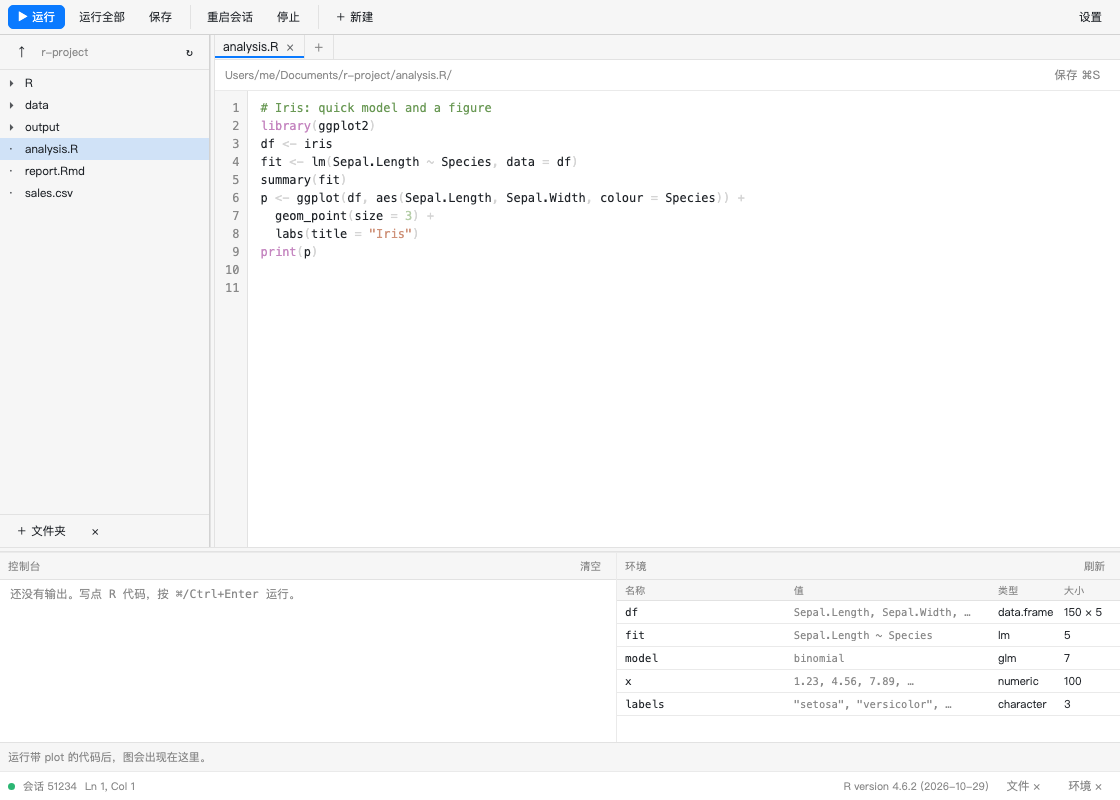
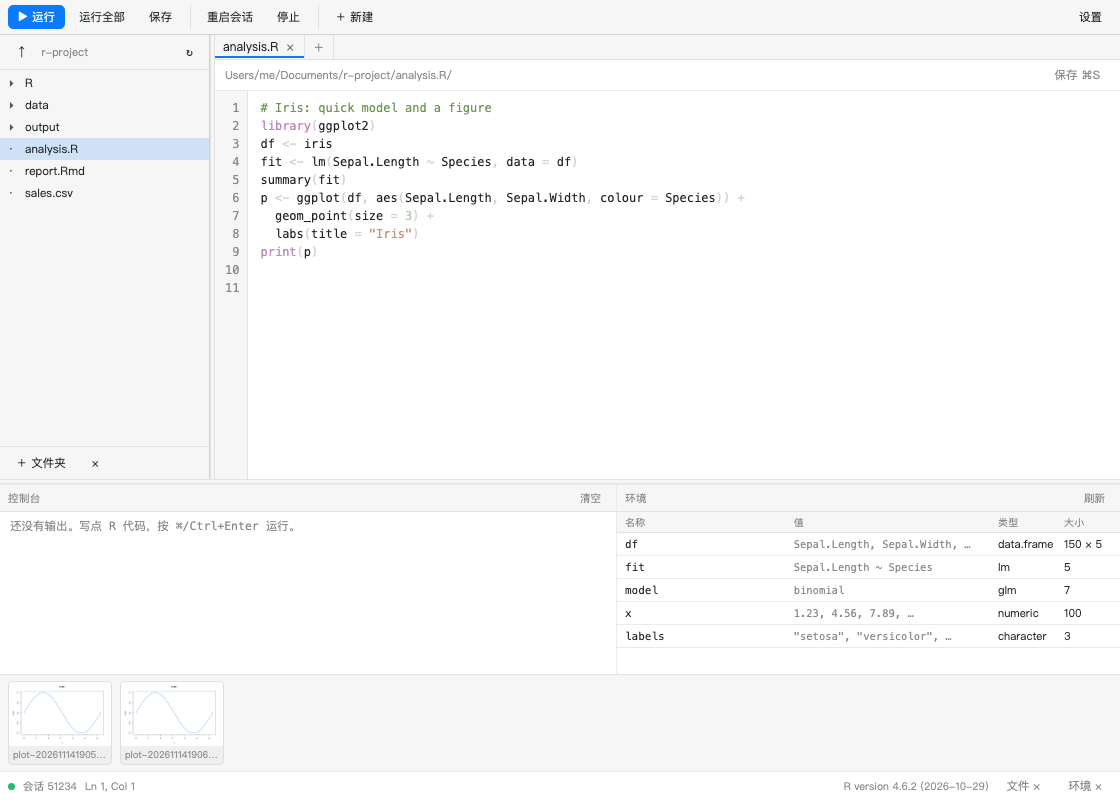
feat(client): click a plot to enlarge it, with fit/100%, arrow-key browsing and path copy

diff --git a/lib/client.js b/lib/client.js
@@ -475,6 +475,20 @@ window.__ModuleLoader__.load({
 .rr-thumb { display:flex; flex-direction:column; gap:2px; flex:none; width:104px; border:1px solid var(--rr-border-soft); border-radius:5px; overflow:hidden; background:rgba(127,127,127,.05); }
 .rr-thumb img { width:100%; height:64px; object-fit:contain; background:#fff; display:block; }
 .rr-thumb-name { font-size:9.5px; padding:0 4px 3px; color:var(--rr-muted); overflow:hidden; text-overflow:ellipsis; white-space:nowrap; }
+.rr-thumb { cursor:zoom-in; padding:0; border-radius:5px; text-align:left; color:inherit; font:inherit; }
+.rr-thumb:hover { border-color:var(--rr-accent); }
+.rr-thumb:focus-visible { outline:2px solid var(--rr-accent); outline-offset:1px; }
+.rr-lightbox { position:fixed; inset:0; z-index:70; background:rgba(12,14,18,.72); display:flex; flex-direction:column; }
+.rr-lb-bar { display:flex; align-items:center; gap:8px; padding:8px 12px; color:#fff; background:rgba(12,14,18,.55); border-bottom:1px solid rgba(255,255,255,.14); }
+.rr-lb-title { flex:1 1 auto; min-width:0; overflow:hidden; text-overflow:ellipsis; white-space:nowrap; font-family:var(--rr-mono); font-size:11px; opacity:.9; }
+.rr-lb-btn { display:inline-flex; align-items:center; justify-content:center; height:24px; min-width:24px; padding:0 8px; border-radius:5px; border:1px solid rgba(255,255,255,.22); background:rgba(255,255,255,.08); color:#fff; font:inherit; font-size:11.5px; cursor:pointer; white-space:nowrap; }
+.rr-lb-btn:hover { background:rgba(255,255,255,.18); }
+.rr-lb-btn[data-on="true"] { background:var(--rr-accent); border-color:var(--rr-accent); }
+.rr-lb-stage { flex:1 1 auto; min-height:0; overflow:auto; display:flex; align-items:center; justify-content:center; padding:12px; }
+.rr-lb-stage img { display:block; background:#fff; border-radius:3px; box-shadow:0 10px 40px rgba(0,0,0,.45); }
+.rr-lb-stage[data-zoom="fit"] img { max-width:100%; max-height:100%; object-fit:contain; }
+.rr-lb-stage[data-zoom="full"] img { max-width:none; max-height:none; }
+.rr-lb-hint { color:rgba(255,255,255,.72); font-size:10.5px; padding:6px 12px 8px; text-align:center; }
 .rr-status { display:flex; align-items:center; gap:8px; padding:2px 8px; flex:none; border-top:1px solid var(--rr-border-soft); font-size:10.5px; color:var(--rr-muted); }
 .rr-status .rr-spacer { flex:1 1 auto; }
 .rr-settings { flex:1 1 auto; overflow:auto; padding:12px 14px 24px; }
@@ -563,6 +577,8 @@ window.__ModuleLoader__.load({
       const [running, setRunning] = react.useState(false)
       const [message, setMessage] = react.useState('')
       const [editing, setEditing] = react.useState(null)
+      const [lightbox, setLightbox] = react.useState(
+        typeof props?.initialLightbox === 'number' ? { index: props.initialLightbox, fit: true } : null)
       const [treeWidth, setTreeWidth] = react.useState(() => readNumber(TREE_WIDTH_KEY, 210))
       const [consoleHeight, setConsoleHeight] = react.useState(() => readNumber(CONSOLE_KEY, 190))
       const [caret, setCaret] = react.useState({ line: 1, col: 1 })
@@ -1104,14 +1120,66 @@ window.__ModuleLoader__.load({
               h('span', null, String(item.size ?? ''))))))
       }
 
+      const openLightbox = (index) => setLightbox({ index, fit: true })
+
+      const stepPlot = (delta) => setLightbox((current) => {
+        if (current === null || plots.length === 0) return current
+        const next = (current.index + delta + plots.length) % plots.length
+        return { ...current, index: next }
+      })
+
+      react.useEffect(() => {
+        if (lightbox === null) return undefined
+        const onKey = (event) => {
+          if (event.key === 'Escape') { event.preventDefault(); setLightbox(null) }
+          else if (event.key === 'ArrowLeft') { event.preventDefault(); stepPlot(-1) }
+          else if (event.key === 'ArrowRight') { event.preventDefault(); stepPlot(1) }
+          else if (event.key === '0') { event.preventDefault(); setLightbox((current) => current === null ? current : { ...current, fit: true }) }
+        }
+        document.addEventListener('keydown', onKey)
+        return () => document.removeEventListener('keydown', onKey)
+      }, [lightbox, plots.length])
+
+      const copyPath = (path) => {
+        const text = path
+        const done = () => flash('路径已复制')
+        try {
+          if (navigator.clipboard?.writeText) { navigator.clipboard.writeText(text).then(done, () => flash(text)) }
+          else flash(text)
+        } catch { flash(text) }
+      }
+
+      function renderLightbox() {
+        if (lightbox === null || plots.length === 0) return null
+        const index = Math.min(Math.max(lightbox.index, 0), plots.length - 1)
+        const path = plots[index]
+        return h('div', { className: 'rr-lightbox', 'data-rr-lightbox': true, role: 'dialog', 'aria-modal': 'true', onMouseDown: (event) => { if (event.target === event.currentTarget) setLightbox(null) } },
+          h('div', { className: 'rr-lb-bar' },
+            h('button', { className: 'rr-lb-btn', onClick: () => setLightbox(null), title: '关闭（Esc）' }, '✕'),
+            h('span', { className: 'rr-lb-title', title: path }, `${index + 1} / ${plots.length} · ${basename(path)}`),
+            plots.length > 1 ? h('button', { className: 'rr-lb-btn', onClick: () => stepPlot(-1), title: '上一张（←）' }, '‹') : null,
+            plots.length > 1 ? h('button', { className: 'rr-lb-btn', onClick: () => stepPlot(1), title: '下一张（→）' }, '›') : null,
+            h('button', { className: 'rr-lb-btn', 'data-on': lightbox.fit ? 'true' : 'false', onClick: () => setLightbox({ ...lightbox, index, fit: !lightbox.fit }), title: '切换 适应窗口 / 原始大小（0）' }, lightbox.fit ? '适应' : '100%'),
+            h('a', { className: 'rr-lb-btn', href: artifactUrl(path), target: '_blank', rel: 'noreferrer', title: '在新标签打开原图' }, '打开原图'),
+            h('button', { className: 'rr-lb-btn', onClick: () => copyPath(path) }, '复制路径')),
+          h('div', { className: 'rr-lb-stage', 'data-zoom': lightbox.fit ? 'fit' : 'full', onMouseDown: () => {} },
+            h('img', { src: artifactUrl(path), alt: basename(path), draggable: false })),
+          h('div', { className: 'rr-lb-hint' }, 'Esc 关闭 · ← → 切换 · 0 适应窗口'))
+      }
+
       function renderPlots() {
         return h('div', { className: 'rr-plots', 'data-rr-plots': true },
           plots.length === 0
             ? h('div', { className: 'rr-plots-empty' }, '运行带 plot 的代码后，图会出现在这里。')
-            : plots.map((path, index) => h('div', { key: `${path}-${index}`, className: 'rr-thumb', title: path },
-              h('a', { href: artifactUrl(path), target: '_blank', rel: 'noreferrer' },
-                h('img', { src: artifactUrl(path), alt: basename(path), loading: 'lazy' })),
-              h('div', { className: 'rr-thumb-name' }, basename(path)))))
+            : plots.map((path, index) => h('button', {
+              key: `${path}-${index}`,
+              className: 'rr-thumb',
+              title: `${path}\n点击放大`,
+              'data-rr-thumb': true,
+              onClick: () => openLightbox(index)
+            },
+            h('img', { src: artifactUrl(path), alt: basename(path), loading: 'lazy' }),
+            h('div', { className: 'rr-thumb-name' }, basename(path)))))
       }
 
       function renderStatus() {
@@ -1319,7 +1387,8 @@ window.__ModuleLoader__.load({
             renderVars()),
           renderPlots(),
           renderStatus()],
-        renderModal())
+        renderModal(),
+        renderLightbox())
     }
 
     // -------------------------------------------------------------- registration

diff --git a/README.md b/README.md
@@ -9,6 +9,11 @@ laid out like RStudio, with the keyboard habits of VS Code.
 
 ![Panel](docs/panel.png)
 
+Click any plot thumbnail to open it full-size — fit-to-window or 100 %, flip through
+the set with ← →, copy the path, or open the PNG in a new tab:
+
+![Plot viewer](docs/lightbox.png)
+
 ## What you get
 
 - **A session, not a script runner.** One long-lived `R --slave` process: variables,
@@ -21,7 +26,8 @@ laid out like RStudio, with the keyboard habits of VS Code.
 - **Environment table.** Name / value / class / size, double-click a row to assign a
   new value with any R expression (`1:10`, `c("a","b")`, …).
 - **Plots become files.** Every `plot()` is written to
-  `.dsh-r-runner/plots/plot-<ts>-<pid>-NNN.png`; the panel shows thumbnails, and the
+  `.dsh-r-runner/plots/plot-<ts>-<pid>-NNN.png`; the panel shows thumbnails you can
+  click to enlarge (fit / 100 %, ← → to browse, copy path, open the PNG), and the
   paths are plain files an agent can read.
 - **Agent tool.** `r_run({ code })` / `r_run({ file })` lets the model run R directly
   and get back the console output plus plot paths.
@@ -60,6 +66,8 @@ to the profile manifest; `bin/reload-host.sh` forces the host to re-compose.
 | Open the panel | `⌘⇧R` (web: `⌥⇧R`) |
 | Restart the R session | toolbar **重启会话** |
 | Edit a variable | double-click its row in the environment table |
+| Enlarge a plot | click its thumbnail |
+| Close / browse plots in the viewer | `Esc` / `←` `→` / `0` (fit ⇄ 100 %) |
 
 Notes:
 

diff --git a/docs/PLAN.md b/docs/PLAN.md
@@ -97,7 +97,8 @@ DSH 插件分两半，边界由「谁有权限、谁有 UI」决定：
 - [ ] 运行历史（`history` 路由已留，UI 未接）：上/下方向键取回上一次运行的代码。
 - [ ] Rmd 的「运行当前 chunk」（现在只能整块运行）：解析 ```{r} 块并只跑光标所在块。
 - [ ] 数据查看器：点环境表里 `data.frame` 变量 → 只读表格（前 100 行）。
-- [ ] 图形条：点开大图 + 在新标签打开 + 删除单张。
+- [x] 图形条：点缩略图放大（适应窗口 / 100%、← → 切换、复制路径、新标签打开原图）。
+- [ ] 图形条：删除单张 / 清空 / 「全部图形」网格视图。
 - [ ] 英文文案接线（`en` 词典已注册，界面主体仍是中文）。
 
 ### P1 — 像 IDE（v0.2）
